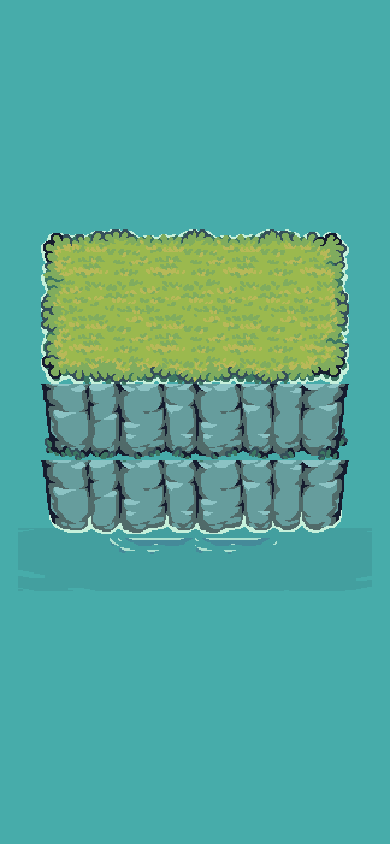
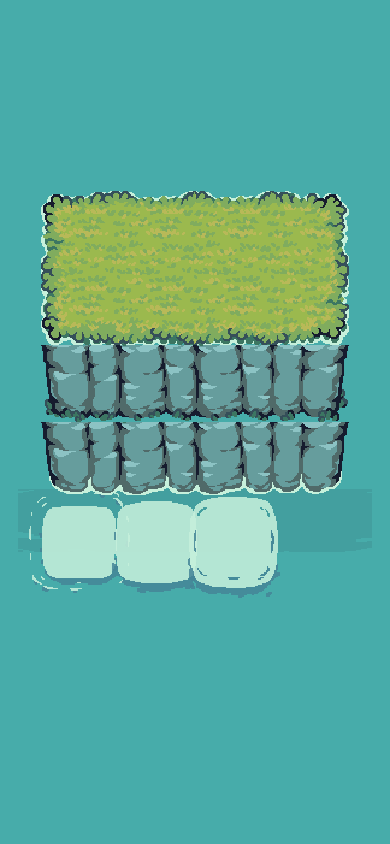
feat(web): render guide-style water foam

Changed region(s): [[0.0923, 0.2156, 0.8923, 0.7085]]

diff --git a/apps/web/src/game/FloatingIslandScene.ts b/apps/web/src/game/FloatingIslandScene.ts
@@ -10,7 +10,11 @@ const SEA_COLOR = 0x4db6b5;
 const platformWidth = rockIslandScenePlan.platform.widthTiles * TILE_SIZE;
 const grassHeight = rockIslandScenePlan.platform.grassRows * TILE_SIZE;
 const rockHeight = rockIslandScenePlan.platform.rockRows * TILE_SIZE;
-const foamHeight = rockIslandScenePlan.foam.rows * TILE_SIZE;
+const foamFrameSize = rockIslandScenePlan.foam.spriteTiles * TILE_SIZE;
+const foamBelowTiles = Math.max(
+  ...rockIslandScenePlan.foam.patches.map((patch) => patch.gridY + rockIslandScenePlan.foam.spriteTiles),
+);
+const foamHeight = foamBelowTiles * TILE_SIZE;
 const platformHeight = grassHeight + rockHeight + foamHeight;
 
 export class FloatingIslandScene extends Phaser.Scene {
@@ -27,8 +31,8 @@ export class FloatingIslandScene extends Phaser.Scene {
       frameHeight: TILE_SIZE,
     });
     this.load.spritesheet('water-foam', tinySwordsAssets.waterFoam, {
-      frameWidth: TILE_SIZE,
-      frameHeight: TILE_SIZE,
+      frameWidth: foamFrameSize,
+      frameHeight: foamFrameSize,
     });
     this.load.spritesheet('shadow', tinySwordsAssets.shadow, {
       frameWidth: TILE_SIZE,
@@ -74,9 +78,9 @@ export class FloatingIslandScene extends Phaser.Scene {
   private createRockIsland() {
     const left = -platformWidth / 2;
     const top = -platformHeight / 2;
+    this.createBottomFoam(left, top + grassHeight + rockHeight);
     this.createGrassCap(left, top);
     this.createRockBody(left, top + grassHeight);
-    this.createBottomFoam(left, top + grassHeight + rockHeight);
   }
 
   private createGrassCap(left: number, top: number) {
@@ -102,12 +106,12 @@ export class FloatingIslandScene extends Phaser.Scene {
   }
 
   private createBottomFoam(left: number, top: number) {
-    for (let x = 0; x < rockIslandScenePlan.platform.widthTiles; x += 1) {
-      const px = left + x * TILE_SIZE + TILE_SIZE / 2;
-      const py = top + TILE_SIZE / 2;
-      const frame = rockIslandScenePlan.frames.foamFrames[x] ?? rockIslandScenePlan.frames.foamFrames[0];
-      const foam = this.add.image(px, py, 'water-foam', frame);
-      foam.setAlpha(0.8);
+    for (const patch of rockIslandScenePlan.foam.patches) {
+      const px = left + patch.gridX * rockIslandScenePlan.foam.gridStepTiles * TILE_SIZE;
+      const py = top + patch.gridY * rockIslandScenePlan.foam.gridStepTiles * TILE_SIZE;
+      const foam = this.add.image(px, py, 'water-foam', patch.frame);
+      foam.setOrigin(0, 0);
+      foam.setAlpha(0.86);
       this.addToWorld(foam);
     }
   }

diff --git a/apps/web/src/game/rockIslandScenePlan.ts b/apps/web/src/game/rockIslandScenePlan.ts
@@ -6,7 +6,13 @@ export const rockIslandScenePlan = {
   },
   foam: {
     placement: 'below-rock',
-    rows: 1,
+    spriteTiles: 3,
+    gridStepTiles: 1,
+    patches: [
+      { gridX: -1, gridY: -1, frame: 0 },
+      { gridX: 0, gridY: -1, frame: 4 },
+      { gridX: 1, gridY: -1, frame: 8 },
+    ],
   },
   frames: {
     grassRows: [
@@ -17,7 +23,6 @@ export const rockIslandScenePlan = {
       [41, 42, 42, 43],
       [50, 51, 51, 52],
     ],
-    foamFrames: [96, 97, 97, 98],
     shadowFrame: 4,
   },
   decorations: [],

diff --git a/apps/web/src/test/rock-island-scene.test.ts b/apps/web/src/test/rock-island-scene.test.ts
@@ -11,7 +11,13 @@ describe('compact rock island scene plan', () => {
     expect(rockIslandScenePlan.decorations).toEqual([]);
     expect(rockIslandScenePlan.foam).toMatchObject({
       placement: 'below-rock',
-      rows: 1,
+      spriteTiles: 3,
+      gridStepTiles: 1,
+      patches: [
+        { gridX: -1, gridY: -1, frame: 0 },
+        { gridX: 0, gridY: -1, frame: 4 },
+        { gridX: 1, gridY: -1, frame: 8 },
+      ],
     });
     expect(rockIslandScenePlan.frames).toEqual({
       grassRows: [
@@ -22,7 +28,6 @@ describe('compact rock island scene plan', () => {
         [41, 42, 42, 43],
         [50, 51, 51, 52],
       ],
-      foamFrames: [96, 97, 97, 98],
       shadowFrame: 4,
     });
   });

diff --git a/docs/ai-usage-log.md b/docs/ai-usage-log.md
@@ -131,3 +131,11 @@
 - 测试过程：先更新资源 manifest 和 `rockIslandScenePlan` 测试，观察到旧临时资源路径与缺失 frame 映射导致测试失败，再修改生产代码；浏览器验证时发现旧 dev server 将 public 资源 fallback 为 HTML，确认根因是端口上的旧服务状态后，使用明确端口 `5180` 的干净 Vite 服务复验。
 - 验证：目标测试通过；全量 `pnpm --filter web test` 11/11 通过；`pnpm --filter web lint`、`pnpm --filter web typecheck` 和 `pnpm --filter web build` 通过。Playwright 打开 `http://127.0.0.1:5180/game` 的桌面 1280x720 与移动 390x844 截图均无 console error、无请求失败、无 AppShell、无 404；静态资源响应均为 `image/png`。
 - 隐私检查：未记录访问密钥、Token、数据库连接串或其他秘密信息。
+
+## 2026-07-18：按 Tiny Swords guide 实现 3x3 Water Foam
+
+- 任务摘要：用户指定 Tiny Swords Tilemap Guide 中的 Water Foam 示例图，要求在 `/game` 中实现同款泡沫铺法。
+- AI 贡献：将 `Water Foam.png` 从 `64x64` 小 tile 切法改为 `192x192` 动画帧切法；在 `rockIslandScenePlan` 中用 `spriteTiles: 3`、`gridStepTiles: 1` 和 3 个 patch 描述 3x3 foam sprite 如何按 64px 网格重叠铺在岩石下沿；Phaser 场景改为先绘制泡沫、后绘制岛体，让泡沫接触岩石但被岛体正确遮挡。
+- 测试过程：先修改 `rockIslandScenePlan` 测试，观察到旧 `rows: 1` 单格泡沫设计不满足 3x3 patch 结构的失败，再实现生产代码。
+- 验证：目标测试通过；全量 `pnpm --filter web test` 11/11 通过；`pnpm --filter web lint`、`pnpm --filter web typecheck` 和 `pnpm --filter web build` 通过。Playwright 打开 `http://127.0.0.1:5180/game` 的桌面 1280x720 与移动 390x844，均无 console error、无请求失败、无 AppShell、无 404；截图已更新。
+- 隐私检查：未记录访问密钥、Token、数据库连接串或其他秘密信息。